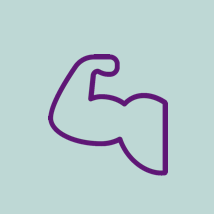
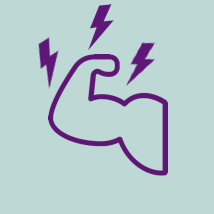
add images for the animations

Changed region(s): [[0.5888, 0.1963, 0.729, 0.3925], [0.1682, 0.1682, 0.2804, 0.4206], [0.4206, 0.0, 0.5327, 0.2243]]

diff --git a/index.html b/index.html
@@ -67,8 +67,7 @@
 				<h1 class="card-title">Mitos sobre las mujeres en el deporte</h1>
 			<!-- Three columns of icons -->
 				<div class="row">
-					<div class="col-lg-4">
-						<img class="rounded-circle" src="images/arm-icon.png" alt="Generic placeholder image" width="140" height="140">
+					<div class="col-lg-4" id="arm">
 						<h2>Primer mito</h2>
 						<p class="text">La actividad deportiva y/o atlética masculiniza a las mujeres. Socialmente se les ha estigmatizado de tener actitudes masculinas.</p>
 					</div><!-- /.col-lg-4 -->
@@ -116,5 +115,6 @@
 	<script src="https://cdnjs.cloudflare.com/ajax/libs/popper.js/1.12.3/umd/popper.min.js" integrity="sha384-vFJXuSJphROIrBnz7yo7oB41mKfc8JzQZiCq4NCceLEaO4IHwicKwpJf9c9IpFgh" crossorigin="anonymous"></script>
 	<script src="js/bootstrap.min.js"></script>
 	<script src="js/main.js"></script>
+	<script src="js/icons.js"></script>
 </body>
 </html>

diff --git a/js/icons.js b/js/icons.js
@@ -1,8 +1,10 @@
 function animatedIcons() {
   let arm = document.getElementById('arm');
-  arm.innerHTML = '<img class="rounded-circle" src="images/arm-icon.png">';
+  arm.innerHTML = '<img class="rounded-circle" src="images/arm-icon.png" alt="Generic placeholder image" width="140" height="140">';
+  // arm.appendChild('<img class="rounded-circle" src="images/arm-icon.png" alt="Generic placeholder image" width="140" height="140">');
   setTimeout(function() {
-    arm.innerHTML = '<img class="rounded-circle" id="arm-atrong" src="images/arm-icon-light.png"';
+    arm.innerHTML = '<img class="rounded-circle" src="images/arm-icon-light.png" alt="Generic placeholder image" width="140" height="140">';
+    // arm.appendChild('<img class="rounded-circle" src="images/arm-icon-light.png" alt="Generic placeholder image" width="140" height="140">');
   }, 1000);
 }
 
